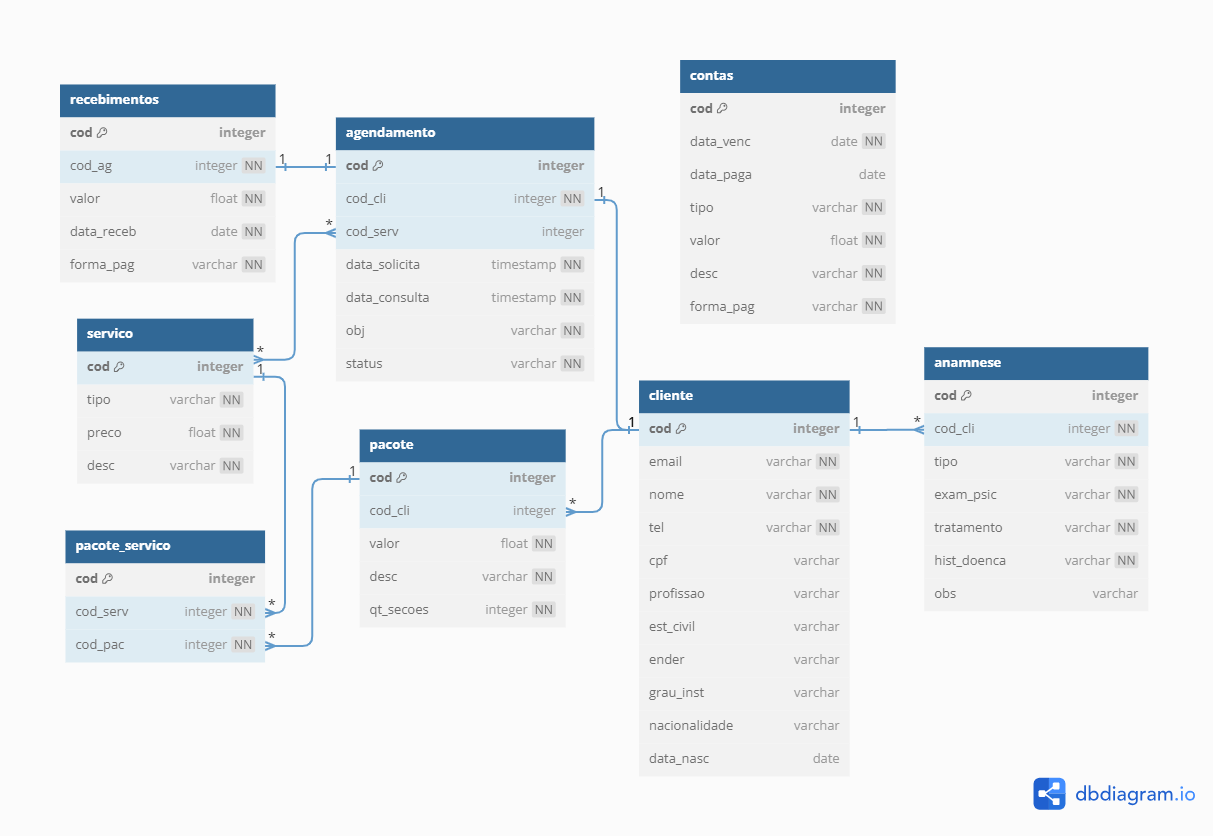
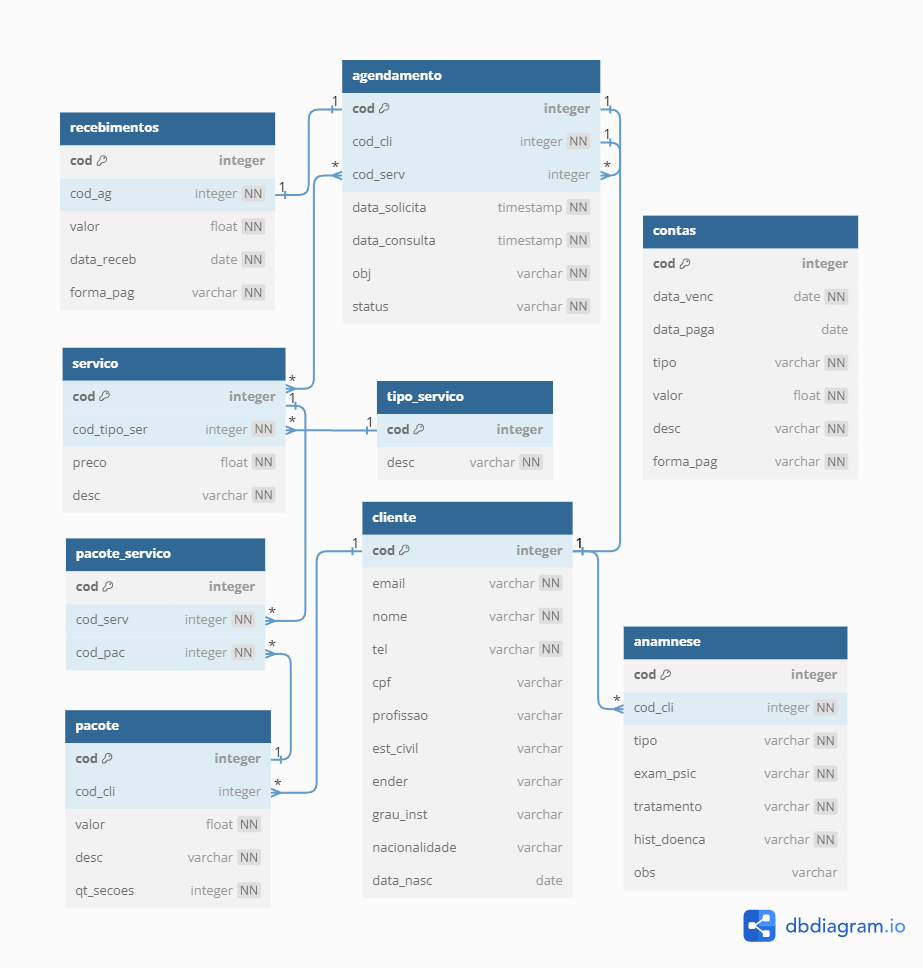
feat: iniciando crud servico

diff --git a/server/src/models/Service.js b/server/src/models/Service.js
@@ -1,0 +1,51 @@
+import Sequelize, { Model } from 'sequelize';
+
+// Model que representa a tabela de serrvices no banco de dados
+export default class Service extends Model {
+  static init(sequelize) {
+    super.init(
+      {
+        description: {
+          type: Sequelize.STRING(255),
+          defaultValue: '',
+          validate: {
+            notEmpty: {
+              msg: 'Description cannot be empty',
+            },
+            len: {
+              args: [5, 255],
+              msg: 'Description must have between 5 and 255 characters',
+            },
+          },
+        },
+        type: {
+          type: Sequelize.STRING(255),
+          defaultValue: '',
+          validate: {
+            notEmpty: {
+              msg: 'Type cannot be empty',
+            },
+            len: {
+              args: [5, 255],
+              msg: 'Type must have between 5 and 255 characters',
+            },
+          },
+        },
+        price: {
+          type: Sequelize.STRING(255),
+          defaultValue: '',
+          validate: {
+            notEmpty: {
+              msg: 'Price cannot be zero or less',
+            },
+          },
+        },
+      },
+      {
+        sequelize,
+      },
+    );
+
+    return this;
+  }
+}

diff --git a/server/src/database/migrations/20230718031445-services.js b/server/src/database/migrations/20230718031445-services.js
@@ -1,0 +1,26 @@
+module.exports = {
+  up: (queryInterface, Sequelize) => queryInterface.createTable('services', {
+    id: {
+      type: Sequelize.INTEGER,
+      allowNull: false,
+      autoIncrement: true,
+      primaryKey: true,
+    },
+    description: {
+      allowNull: false,
+      type: Sequelize.STRING(255),
+      unique: true,
+    },
+    services_types_id: {
+      type: Sequelize.INTEGER,
+      references: { model: 'services_types', key: 'id' },
+      allowNull: false,
+    },
+    price: {
+      allowNull: false,
+      type: Sequelize.DECIMAL(10, 2),
+    },
+  }),
+
+  down: (queryInterface) => queryInterface.dropTable('services'),
+};

diff --git a/server/src/database/migrations/20230718024106-services_types.js b/server/src/database/migrations/20230718024106-services_types.js
@@ -1,0 +1,16 @@
+module.exports = {
+  up: (queryInterface, Sequelize) => queryInterface.createTable('services_types', {
+    id: {
+      type: Sequelize.INTEGER,
+      allowNull: false,
+      autoIncrement: true,
+      primaryKey: true,
+    },
+    description: {
+      allowNull: false,
+      type: Sequelize.STRING(255),
+    },
+  }),
+
+  down: (queryInterface) => queryInterface.dropTable('services_types'),
+};

diff --git a/server/src/models/Client.js b/server/src/models/Client.js
@@ -1,6 +1,6 @@
 import Sequelize, { Model } from 'sequelize';
 
-// Model que representa a tabela de usuários no banco de dados
+// Model que representa a tabela de clientes no banco de dados
 export default class Client extends Model {
   static init(sequelize) {
     super.init(
